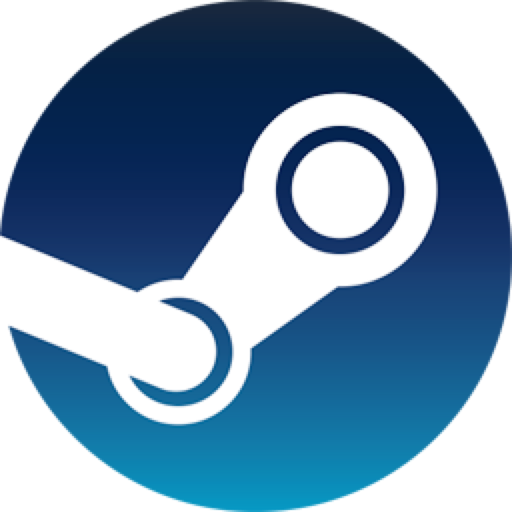
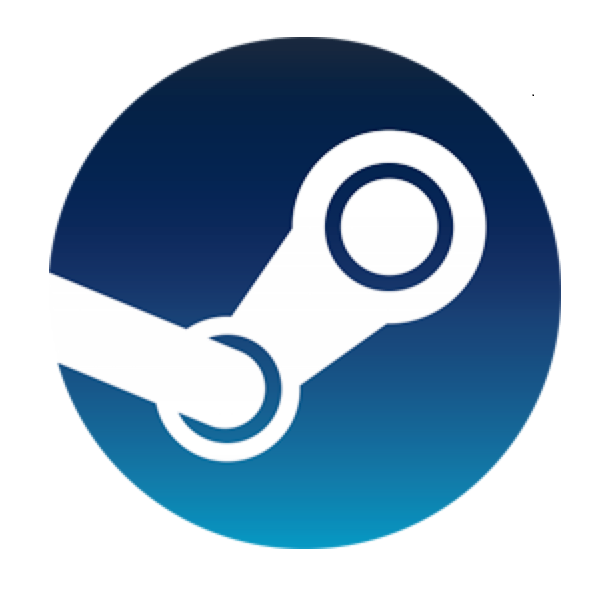
Add steam link

diff --git a/app/assets/styles.css b/app/assets/styles.css
@@ -25,8 +25,8 @@ body {
     border-radius: 10px;
     text-align: center;
     opacity: 0.7;
-    width: 200px;
-    height: 150px;
+    width: 150px;
+    height: 125px;
 }
 
 .item-padding {
@@ -68,7 +68,7 @@ body {
 }
 
 .steam {
-    background-image: url('steam.jpg');
+    background-image: url('steam.png');
 }
 
 .video-container {
@@ -80,14 +80,11 @@ body {
 
 #background-video {
     position: absolute;
-    top: 50%;
-    left: 50%;
-    min-width: 100%;
-    min-height: 100%;
+    top: -100px;
+    left: 0;
     width: auto;
     height: auto;
     z-index: -1;
-    transform: translate(-50%, -50%);
     background-size: cover;
 }
 

diff --git a/app/index.html b/app/index.html
@@ -15,7 +15,7 @@
   </div>
   <div class="video-container container">
     <video autoplay muted loop id="background-video">
-      <source src="assets/video3.mp4" type="video/mp4">
+      <source src="assets/video.mp4" type="video/mp4">
       Your browser does not support the video tag.
     </video>
     <div class="item">
@@ -30,7 +30,7 @@
     <div class="item">
       <div id="youtube" class="image-button youtube"></div>
     </div>
-    <div class="item"></div>
+    <div class="item">
       <div id="steam" class="image-button steam"></div>
     </div>
   </div>
